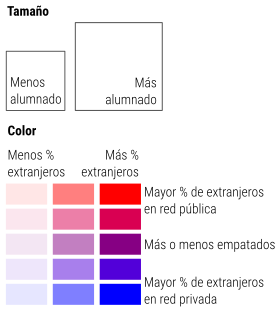
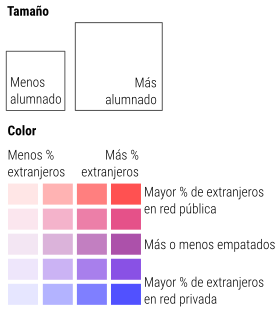
hace crispy edges el cartogram. mete una columna de color más en leyenda

Changed region(s): [[0.3165, 0.5788, 0.518, 0.9839], [0.1151, 0.5788, 0.2878, 0.9839], [0.0, 0.5788, 0.0288, 0.9839]]

diff --git a/extranjero/index.html b/extranjero/index.html
@@ -32,7 +32,7 @@
 <meta property="og:type" content="website" />
 <meta property="og:description" content="Un análisis gráfico del porcentaje de extranjero en ambas redes." />
 <meta name="og:image" content="https://lab.montera34.com/segregacionescolar/images/cartograma-segregacion-ered-publica-privada-xtranjeros-euskadi.png" />
-<meta property="og:url" content="https://lab.montera34.com/segregacionescolar/extranjeros" />
+<meta property="og:url" content="https://lab.montera34.com/segregacionescolar/extranjero" />
 <!-- twitter meta -->
 <meta name="twitter:card" content="summary_large_image" />
 <meta name="twitter:site" content="@montera34">
@@ -69,6 +69,7 @@ rect:hover {
  }
 rect {
   opacity:0.7;
+  shape-rendering: crispEdges;
 }
 
 .Igeldo text{
@@ -99,7 +100,7 @@ rect {
 				<span class="icon-bar"></span>
 				<span class="icon-bar"></span>
 			</button>
-			<a class="navbar-brand" href="https://lab.montera34.com/segregacionescolar/">Segregación escolar/</a> <a class="navbar-brand" href="#">Alumnado extranjero</a>
+			<a class="navbar-brand" href="https://lab.montera34.com/segregacionescolar/">Segregación escolar Euskadi/</a> <a class="navbar-brand" href="#">Alumnado extranjero</a>
 		</div>
 		<div class="collapse navbar-collapse" id="top-navbar-collapse">
 			<ul class="nav navbar-nav nabvar-left">

diff --git a/extranjero/cartogram.js b/extranjero/cartogram.js
@@ -129,8 +129,8 @@ var path = d3.geoPath()
 								*/
 							})
               //color(d.properties.indice_desigualdad)
-              .attr("stroke", "#aaa")
-              .attr("stroke-width", 0.5)
+              .attr("stroke", "#CCC")
+              .attr("stroke-width", 1)
               .attr("rx", 0.5)
           })
 
@@ -148,8 +148,8 @@ var path = d3.geoPath()
 									return colorPriv(d.properties.perc_alum_ext_priv)
 								}
 							})
-              .attr("stroke", "#aaa")
-              .attr("stroke-width", 0.5)
+              .attr("stroke", "#CCC")
+              .attr("stroke-width", 1)
               .attr("rx", 0.5)
           })
 
